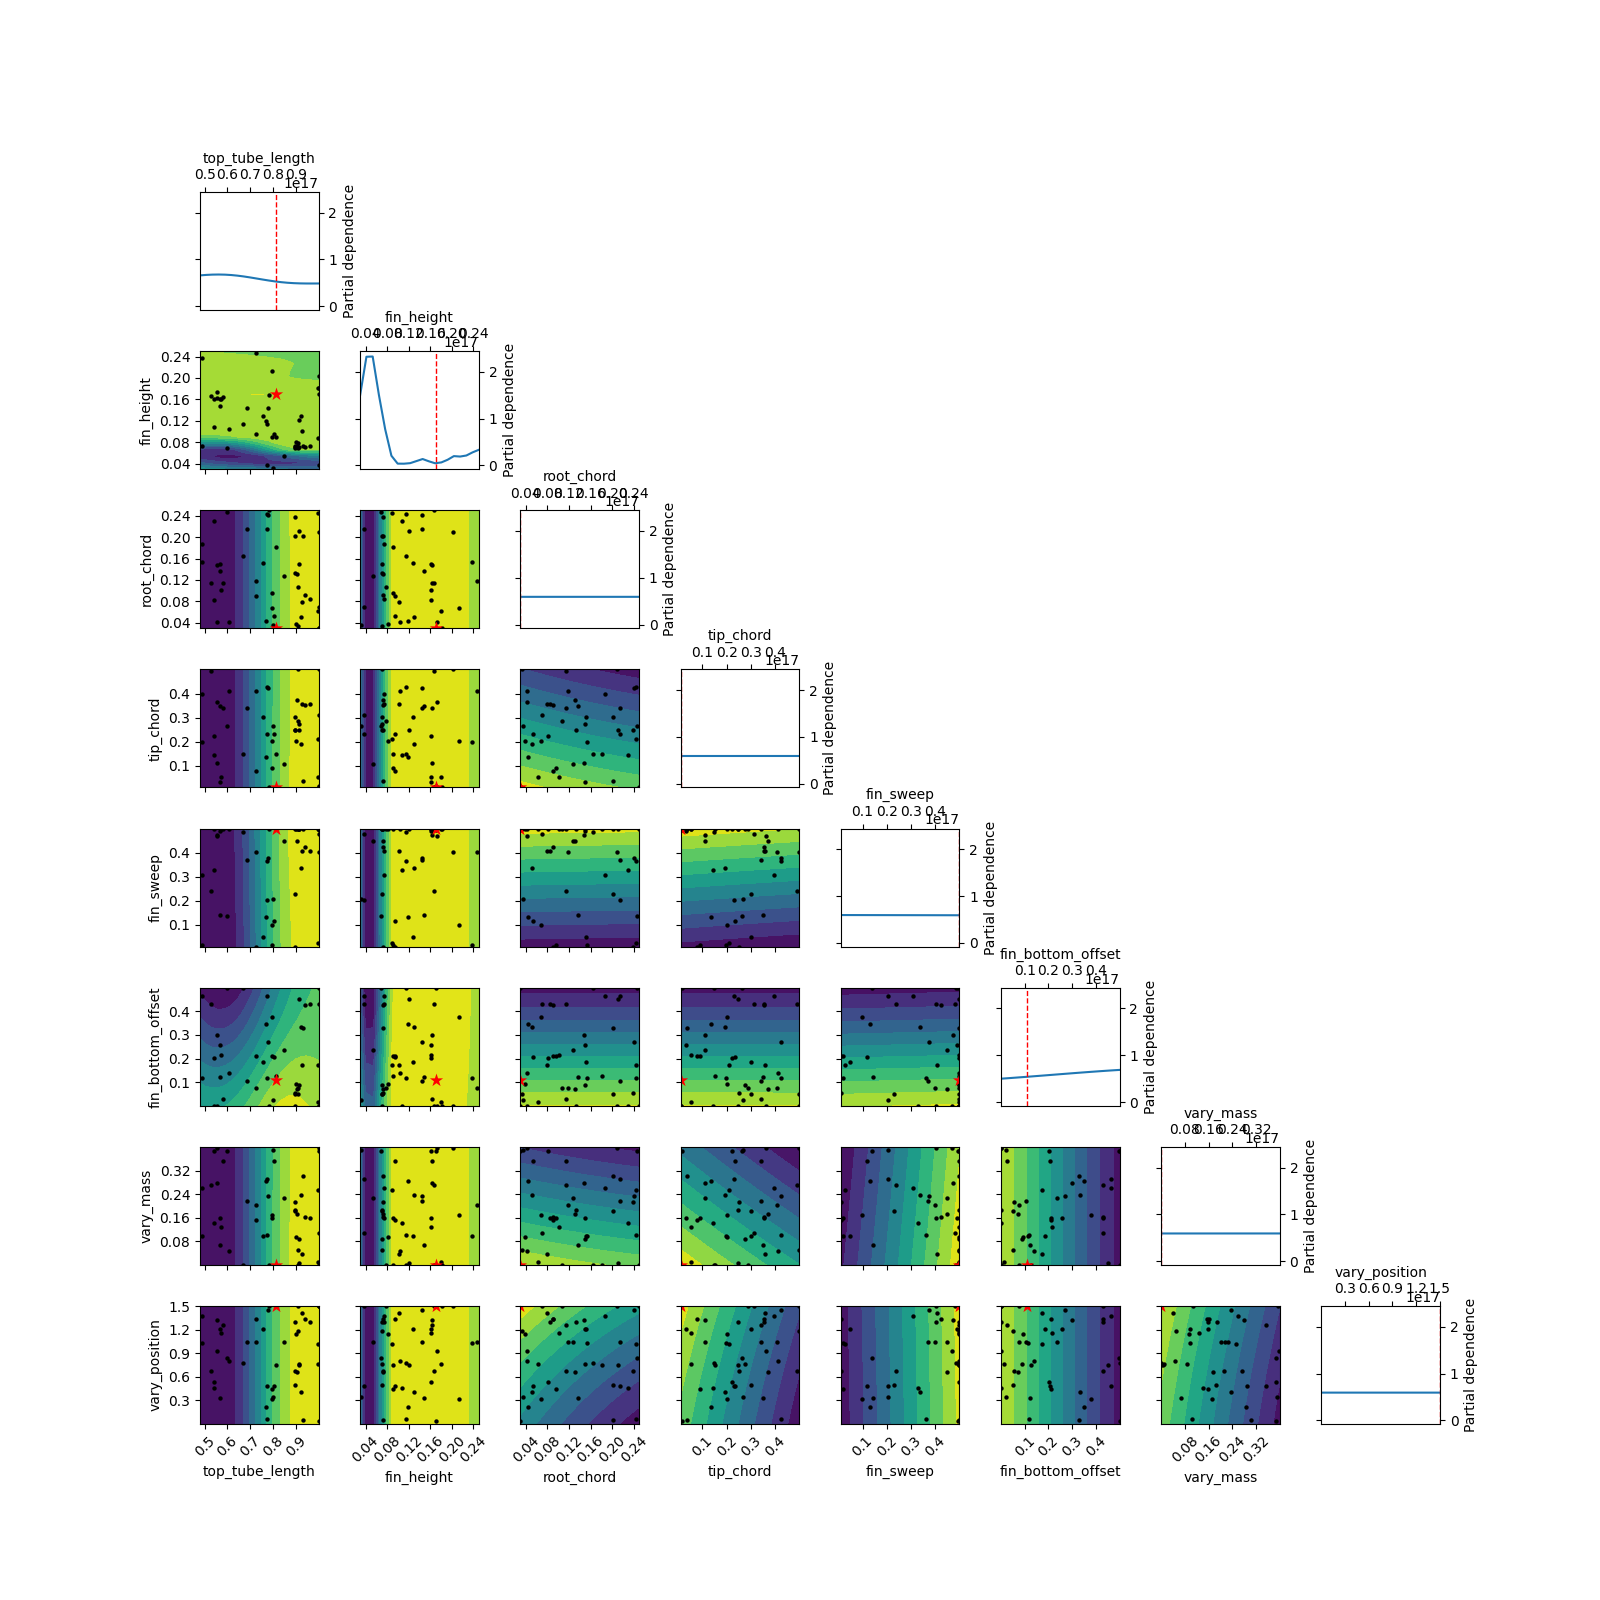
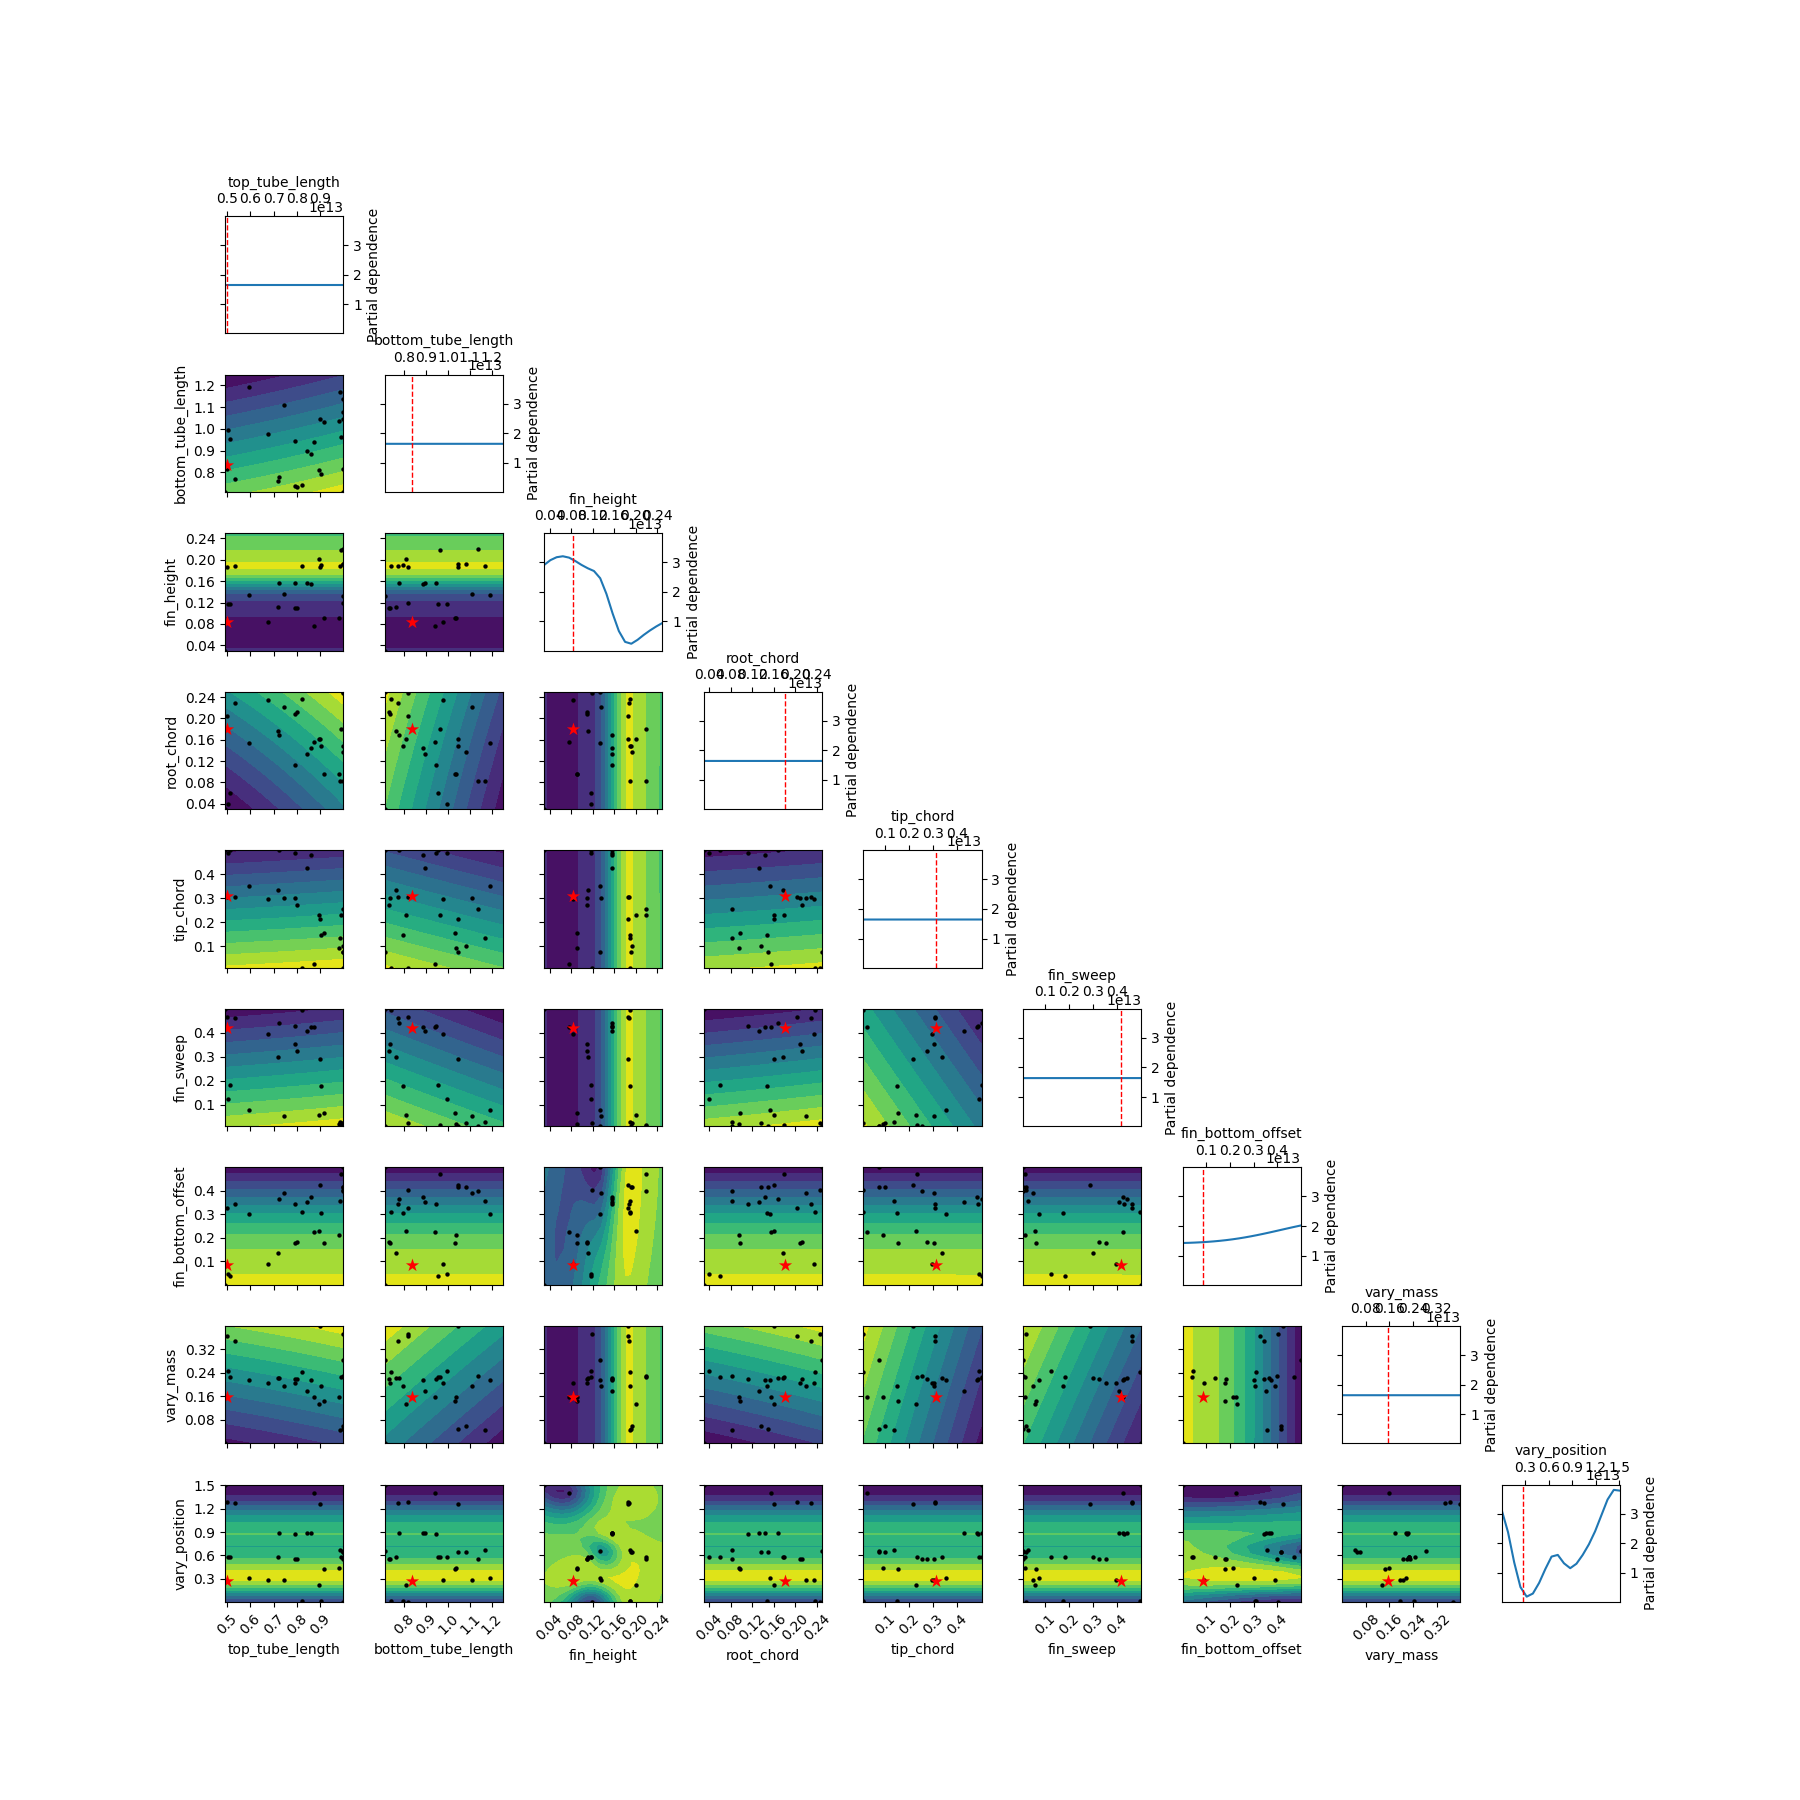
update to inculde top bottom

Changed region(s): [[0.0938, 0.0938, 0.9375, 0.9375]]

diff --git a/Optimizer.py b/Optimizer.py
@@ -31,8 +31,12 @@ class Optimizer:
         self.components = []
         self.setup_components(self.rocket)
         # Search Space
+        halfcluster = 35.5 / 100.0 # cm to m
+        nosefit = 13.5 / 100.0 # cm to m
+        moterfit = 35.5 / 100.0 # cm to m
         self.space = [
-            Real(0.48, 1, name='top_tube_length'),    # Tube m
+            Real(halfcluster + nosefit, 1, name='top_tube_length'),    # Total Tube m
+            Real(halfcluster + moterfit, 1.25, name='bottom_tube_length'),     # Bottom Tube m
             Real(0.03, 0.25, name='fin_height'),     # Height m
             Real(0.03, 0.25, name='root_chord'),   # Root Chord m
             Real(0.01, 0.5, name='tip_chord'),      # Tip Chord m
@@ -61,18 +65,23 @@ class Optimizer:
         best_apogee = 0.0
 
         @use_named_args(self.space)
-        def objective_function(top_tube_length, fin_height, root_chord, tip_chord, 
+        def objective_function(top_tube_length, bottom_tube_length, fin_height, root_chord, tip_chord, 
                                fin_sweep, fin_bottom_offset, vary_mass, vary_position):
             # Mod Rocket
             try:
                 # --- TUBE ---
-                tube = self.get_component("Top Tube")
-                if tube: 
-                    tube.setLength(top_tube_length)
-                    if tube.getLength() != top_tube_length:
-                        print(f"⚠ Warning: Tube length not set correctly. Expected {top_tube_length}, got {tube.getLength()}") 
+                top_tube = self.get_component("Top Tube")
+                bottom_tube = self.get_component("Bottom Tube")
+                if top_tube: 
+                    top_tube.setLength(top_tube_length)
+                    if top_tube.getLength() != top_tube_length:
+                        print(f"⚠ Warning: Top Tube length not set correctly. Expected {top_tube_length}, got {top_tube.getLength()}") 
+                if bottom_tube:
+                    bottom_tube.setLength(bottom_tube_length)
+                    if bottom_tube.getLength() != bottom_tube_length:
+                        print(f"⚠ Warning: Bottom Tube length not set correctly. Expected {bottom_tube_length}, got {bottom_tube.getLength()}")
                 else:
-                    print(f"❌ ERROR: Could not find component top tube")
+                    print(f"❌ ERROR: Could not find component bottom tube")
 
                 # --- FINS ---
                 fins = self.get_component("Trapezoidal Fin Set")
@@ -88,7 +97,8 @@ class Optimizer:
                     parent = fins.getParent()
                     if parent:
                         parent_len = parent.getLength()
-
+                        if parent_len != bottom_tube_length:
+                            print(f"⚠ Warning: Parent length mismatch. Expected {bottom_tube_length}, got {parent_len}")
                         # Formula: Length - Root - Offset
                         calculated_pos = parent_len - root_chord - fin_bottom_offset
                         fins.setAxialOffset(calculated_pos)
@@ -171,37 +181,36 @@ class Optimizer:
             # 1. PRIMARY OBJECTIVE: APOGEE BOWL
             # We use a lower power (2 instead of 4) so the gradients are smoother
             # but scale it so it's the dominant factor near the target.
-            loss = (1000 * abs(apogee - TARGET_ALTITUDE) / 55.0) ** 4
-
+            loss = ((abs(apogee - TARGET_ALTITUDE) / 20.0) ** 2) * 100000
+ 
             # 2. THE "FORBIDDEN ZONE": MINIMUM STABILITY
             # If the rocket is unsafe, the penalty must be a "Wall" that the
             # optimizer cannot climb over. 1.5 is the safety floor.
             if min_stab < 1.5:
-                loss += (1.5 - min_stab) * 50000000
-                print(f"⚠ Dangerous Instability (Min: {min_stab:.2f})")
+                loss += ((1.5 - min_stab) + 10000000) ** 2
+                # print(f"⚠ Dangerous Instability (Min: {min_stab:.2f})")
 
             # 3. RULE OF THUMB: OVER-STABILITY (WEATHERCOCKING)
             # Rockets with > 2.5 stability are too wind-sensitive. 
-            # We want to gently push the optimizer back toward the 1.5 - 2.2 range.
-            if avg_stab > 3.5:
-                loss += (1000 * (avg_stab - 3.5)) ** 3
+            if avg_stab > 2.1:
+                loss += ((avg_stab - 2.1) ** 2) * 10000
                 
             # 4. GEOMETRIC CONSTRAINTS (Structural Integrity)
             # Rule: Sweep should not exceed Root Chord (Standard Rocketry Guideline)
             # Extreme sweeps cause fin flutter and structural failure.
             if fin_sweep > 2 * root_chord:
-                loss += 8000 * (fin_sweep - root_chord)
+                loss += ((fin_sweep - root_chord) ** 2)* 100
                 
             # Rule: Tip Chord should generally be smaller than Root Chord
             # Large tips create high drag and stress on the fin root.
             if tip_chord > 2 * root_chord:
-                loss += 8000 * (tip_chord - root_chord)
+                loss += ((tip_chord - root_chord) ** 2) * 100
 
             # 5. VELOCITY CONSTRAINT: RAIL EXIT
             # If the rocket leaves the rail too slow, it can't stabilize.
             # Assuming rail_exit_vel was computed earlier in the code:
             if rail_exit_vel < 13.0:  # 15 m/s is a common safe minimum
-                loss += 10000 * (13.0 - rail_exit_vel)
+                loss += ((13.0 - rail_exit_vel) + 1000000) ** 2
 
             return loss
 
@@ -210,7 +219,7 @@ class Optimizer:
             objective_function,
             self.space,
             n_calls=iterations,            
-            n_random_starts=int(iterations * 0.5),
+            n_random_starts=int(iterations * 0.4),
             noise=1e-6,            
             random_state=42        
         )
@@ -226,7 +235,7 @@ class Optimizer:
         # 1. UNPACK PARAMETERS
         # ⚠ CRITICAL: This must match the order in self.space EXACTLY
         # If you switched to Ratios, update these variable names!
-        top_tube_length, fin_height, root_chord, tip_chord, \
+        top_tube_length, bottom_tube_length, fin_height, root_chord, tip_chord, \
         fin_sweep, fin_bottom_offset, vary_mass, vary_position = best_params
 
         fins = self.get_component("Trapezoidal Fin Set") 
@@ -238,7 +247,8 @@ class Optimizer:
             calculated_pos_display = parent_len - root_chord - fin_bottom_offset
         
         print(f"📝 Applying parameters:\n"
-            f"   - Tube Len: {top_tube_length * 100:.2f} cm\n"
+            f"   - Top Tube Len: {top_tube_length * 100:.2f} cm\n"
+            f"   - Bottom Tube Len:  {bottom_tube_length * 100:.2f} cm\n"
             f"   - Fin Height: {fin_height * 100:.2f} cm\n"
             f"   - Fin Root: {root_chord * 100:.2f} cm\n"
             f"   - Fin Tip:  {tip_chord * 100:.2f} cm\n"
@@ -249,8 +259,12 @@ class Optimizer:
         
         # 2. APPLY TO ROCKET (Same logic as objective_function)
         # --- TUBE ---
-        tube = self.get_component("Top Tube") # Verify this name!
-        if tube: tube.setLength(top_tube_length)
+        top_tube = self.get_component("Top Tube")
+        bottom_tube = self.get_component("Bottom Tube")
+        if top_tube: 
+            top_tube.setLength(top_tube_length)
+        if bottom_tube:
+            bottom_tube.setLength(bottom_tube_length)
 
         # --- FINS ---
         fins = self.get_component("Trapezoidal Fin Set") 

diff --git a/main.py b/main.py
@@ -10,7 +10,7 @@ import traceback
 # 1. Path to your verified JAR
 JAR_PATH = Path(__file__).parent / 'OpenRocket-23.09.jar'
 ROCKET_FILE = Path(__file__).parent / 'ALC Rocket PDR Checked.ork'
-TARGET_ALTITUDE = 1400.0 # 4500~ ft
+TARGET_ALTITUDE = 1350.0 # 4250~ ft
 print("Initializing OpenRocket...")
 
 try:
@@ -30,7 +30,7 @@ try:
 
             # Run the Optimizer
             Opt = Optimizer(instance, str(ROCKET_FILE))
-            results = Opt.run_optimizer(TARGET_ALTITUDE, iterations=50)
+            results = Opt.run_optimizer(TARGET_ALTITUDE, iterations=30)
     
             # Report Results
             UiTools.report_results(results[0])
